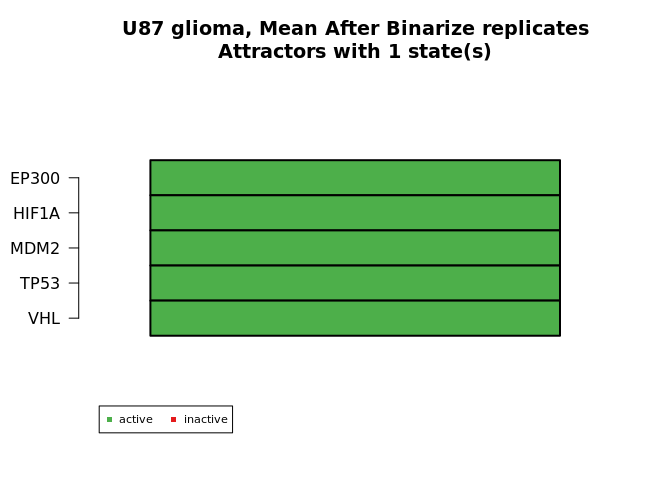
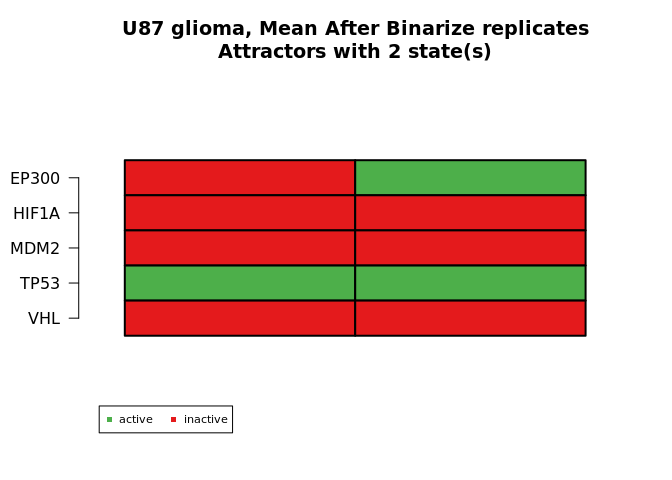
Update atractors glioma net.

Changed region(s): [[0.1562, 0.3125, 0.875, 0.7188], [0.5625, 0.0938, 0.5938, 0.125]]

diff --git a/workflow_boolnet/BoolNetInference_EGEOD18494.md b/workflow_boolnet/BoolNetInference_EGEOD18494.md
@@ -1166,7 +1166,7 @@ print(glioma.mean.net)
 try({
 sink("../data/ATOTS_inferred_EGEOD18494_glioma_meanAfter.bn")
 cat("targets, factors\n")
-cat("EP300, (!!TP53 | !EP300)\n")
+cat("EP300, (!TP53 | !EP300)\n")
 cat("HIF1A, MDM2\n")
 cat("MDM2, 0\n")
 cat("TP53, !MDM2\n")
@@ -1175,7 +1175,7 @@ sink()}, silent = T)
 ```
 
 ``` r
-net <- loadNetwork("../data/ATOTS_inferred_EGEOD18494_hepatoma_meanAfter.bn")
+net <- loadNetwork("../data/ATOTS_inferred_EGEOD18494_glioma_meanAfter.bn")
 print(net)
 ```
 
@@ -1185,34 +1185,26 @@ print(net)
     ## EP300 HIF1A MDM2 TP53 VHL
     ## 
     ## Transition functions:
-    ## EP300 = (VHL | !MDM2) | !EP300
-    ## HIF1A = (!VHL | MDM2 ) | EP300
-    ## MDM2 = (VHL | !MDM2) | !EP300
-    ## TP53 = 1
-    ## VHL = (!VHL | MDM2) | EP300
+    ## EP300 = (!TP53 | !EP300)
+    ## HIF1A = MDM2
+    ## MDM2 = 0
+    ## TP53 = !MDM2
+    ## VHL = HIF1A
     ## 
     ## Knocked-out and over-expressed genes:
-    ## TP53 = 1
+    ## MDM2 = 0
 
 ``` r
 attr.syn <- getAttractors(net, type = "synchronous")
 plotAttractors(attr.syn, title = "U87 glioma, Mean After Binarize replicates")
 ```
 
-![](figs/EGEOD18494-unnamed-chunk-49-1.png)<!-- -->![](figs/EGEOD18494-unnamed-chunk-49-2.png)<!-- -->
+![](figs/EGEOD18494-unnamed-chunk-49-1.png)<!-- -->
 
-    ## $`1`
-    ##       Attr1.1
-    ## EP300       1
-    ## HIF1A       1
-    ## MDM2        1
-    ## TP53        1
-    ## VHL         1
-    ## 
     ## $`2`
-    ##       Attr2.1 Attr2.2
-    ## EP300       1       0
-    ## HIF1A       0       1
-    ## MDM2        1       0
+    ##       Attr1.1 Attr1.2
+    ## EP300       0       1
+    ## HIF1A       0       0
+    ## MDM2        0       0
     ## TP53        1       1
-    ## VHL         0       1
+    ## VHL         0       0
